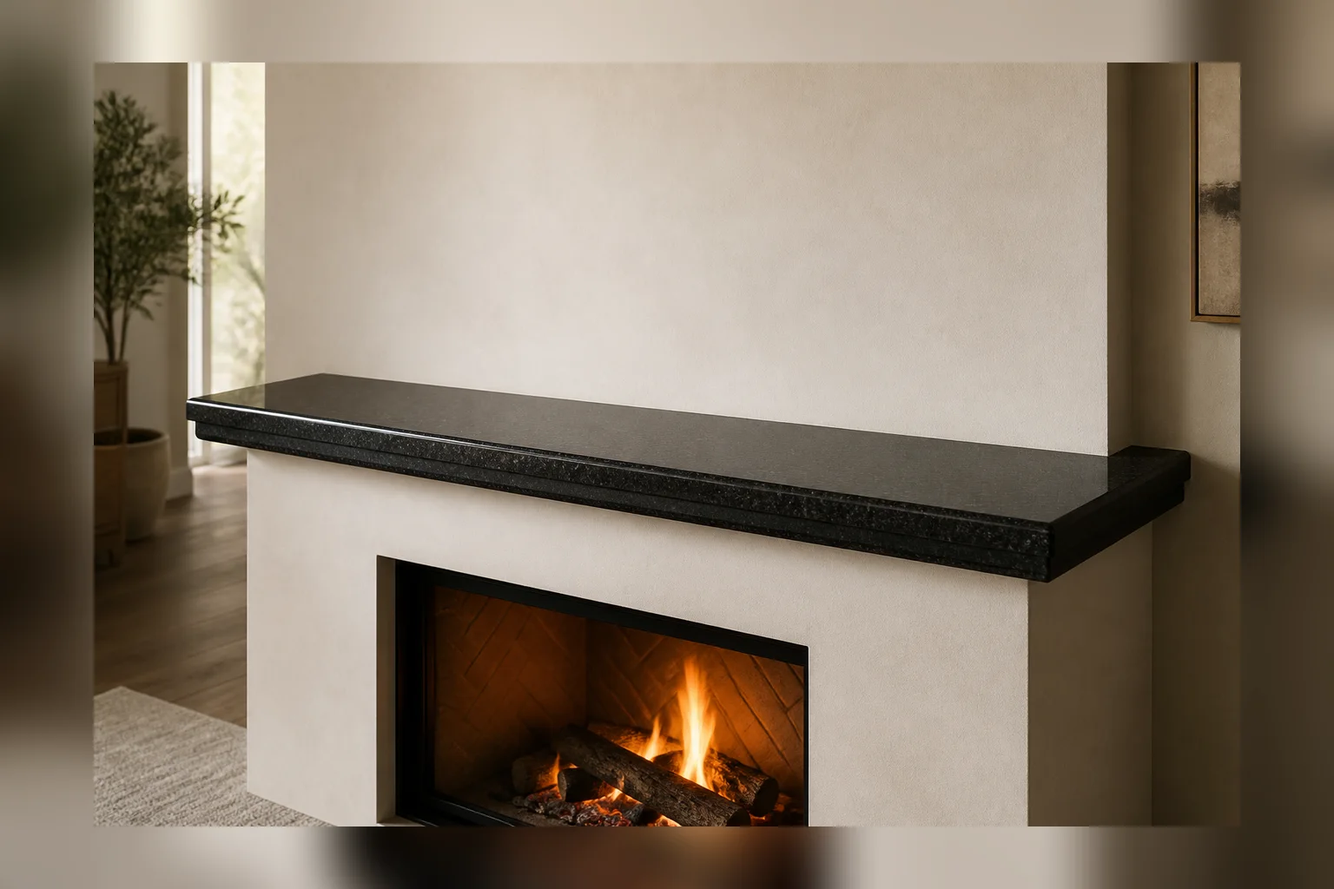
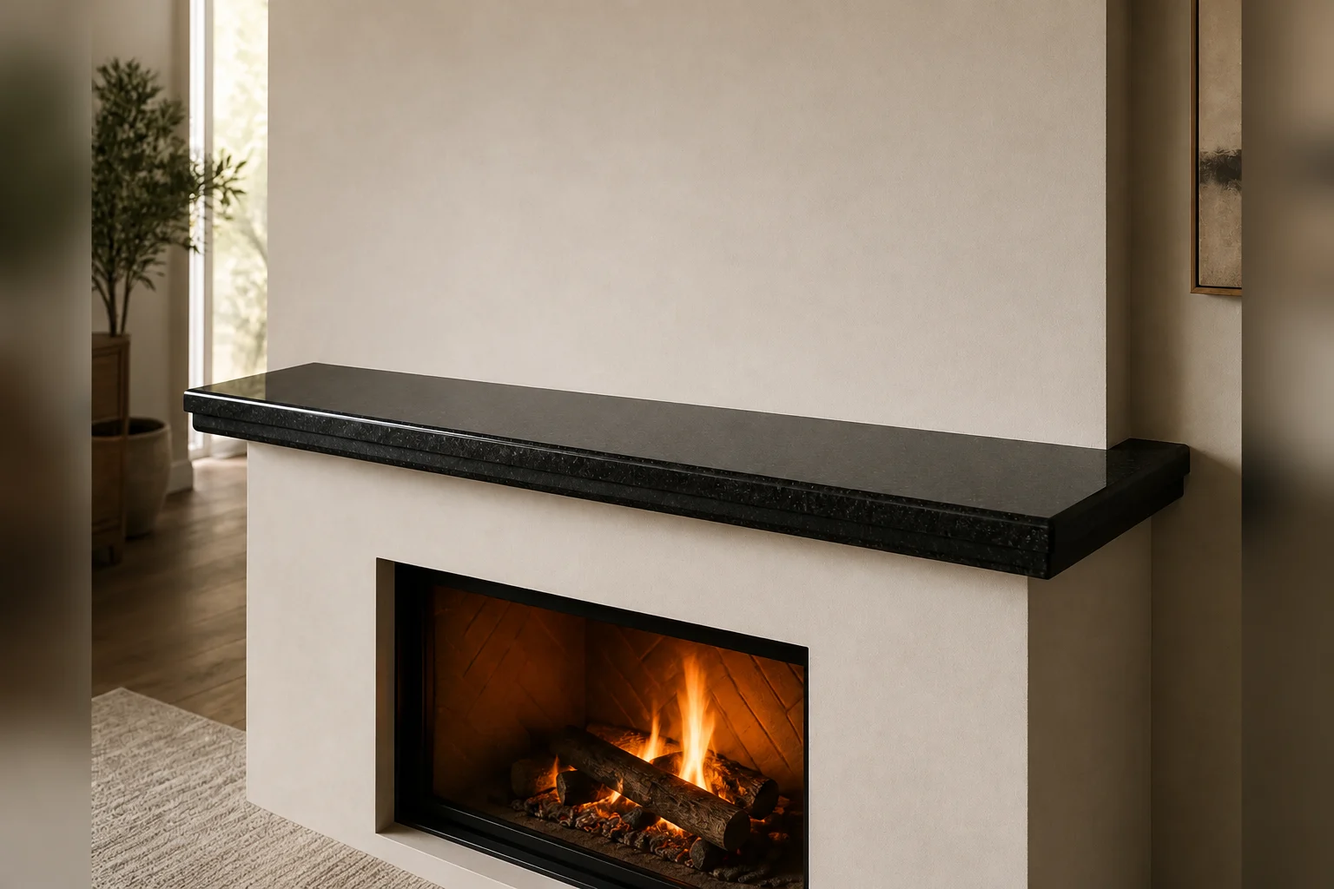
Release v1.1.8 form and catalog polish

diff --git a/app/page.tsx b/app/page.tsx
@@ -23,7 +23,7 @@ export default function Home() {
   const [activeStone, setActiveStone] = useState(0);
   const [selectedInterest, setSelectedInterest] = useState("");
   const [selectedProductIds, setSelectedProductIds] = useState<string[]>([]);
-  const [submitState, setSubmitState] = useState<"idle" | "submitting" | "preview" | "success" | "error">("idle");
+  const [submitState, setSubmitState] = useState<"idle" | "submitting" | "success" | "error">("idle");
   const [publicNumber, setPublicNumber] = useState("");
   const currentStone = useMemo(() => stones[activeStone], [activeStone]);
   const selectedProducts = useMemo(() => resolveProductSelections(selectedProductIds), [selectedProductIds]);
@@ -102,10 +102,6 @@ export default function Home() {
 
   async function submitForm(event: FormEvent<HTMLFormElement>) {
     event.preventDefault();
-    if (!siteConfig.leads.enabled) {
-      setSubmitState("preview");
-      return;
-    }
 
     const form = event.currentTarget;
     const data = new FormData(form);
@@ -277,15 +273,15 @@ export default function Home() {
       </section>
 
       <section className="contact-section" id="contact"><div className="content-wrap contact-grid" data-reveal>
-        <div className="contact-copy"><p className="eyebrow light"><span></span>Почнімо з розмови</p><h2>Розкажіть, який виріб<br />ви хочете <em>створити.</em></h2><p>{siteConfig.leads.enabled ? "Залиште контакт і короткий опис. Заявка спочатку надійно збережеться, а потім майстер отримає сповіщення." : "Форма повністю підготовлена, але збір персональних даних у тестовій версії вимкнено до підключення власного Cloudflare та підтвердження правил зберігання. Найшвидший зв’язок зараз — телефон."}</p><a className="contact-phone" href={siteConfig.phone.href} aria-label={`Зателефонувати: ${siteConfig.phone.display}`}><Icon name="phone" /><span><small>Телефон для консультації</small><b>{siteConfig.phone.display}</b></span></a><MessengerLinks className="contact-messengers" /><div className="contact-note"><Icon name="check" /><span><b>Без поспішних рішень</b><small>Спочатку обговорення, матеріал і проєкт — потім виробництво.</small></span></div></div>
-        {(submitState === "preview" || submitState === "success") ? <div className="form-success" role="status"><span><Icon name="check" /></span><h3>{submitState === "success" ? `Заявку ${publicNumber} збережено` : "Чернетку заявки підготовлено"}</h3><p>{submitState === "success" ? "Майстер отримає сповіщення й зв’яжеться з вами. Збережіть номер заявки." : <>Дані нікуди не надсилалися: на публічному Sites збір персональних даних вимкнений. Зателефонуйте за номером <a href={siteConfig.phone.href}>{siteConfig.phone.display}</a>.</>}</p><button type="button" onClick={() => setSubmitState("idle")}>Повернутися до форми</button></div> :
+        <div className="contact-copy"><p className="eyebrow light"><span></span>Почнімо з розмови</p><h2>Розкажіть, який виріб<br />ви хочете <em>створити.</em></h2><p>Залиште контакт і короткий опис. Заявка спочатку надійно збережеться, а потім майстер отримає сповіщення.</p><a className="contact-phone" href={siteConfig.phone.href} aria-label={`Зателефонувати: ${siteConfig.phone.display}`}><Icon name="phone" /><span><small>Телефон для консультації</small><b>{siteConfig.phone.display}</b></span></a><MessengerLinks className="contact-messengers" /><div className="contact-note"><Icon name="check" /><span><b>Без поспішних рішень</b><small>Спочатку обговорення, матеріал і проєкт — потім виробництво.</small></span></div></div>
+        {submitState === "success" ? <div className="form-success" role="status"><span><Icon name="check" /></span><h3>{`Заявку ${publicNumber} збережено`}</h3><p>Майстер отримає сповіщення й зв’яжеться з вами. Збережіть номер заявки.</p><button type="button" onClick={() => setSubmitState("idle")}>Повернутися до форми</button></div> :
           <form className="contact-form" onSubmit={submitForm} aria-describedby="form-preview-note">
             {selectedProducts ? <div className="selected-products full"><div><Icon name="check" /><p>Обрано для оформлення: <b>{selectedProducts.label}</b></p><button type="button" onClick={clearProductSelection}>Очистити</button></div><ul>{selectedProducts.productLabels.map((label) => <li key={label}>{label}</li>)}</ul></div> : selectedInterest && <p className="selected-interest full"><Icon name="check" />Обрано: <b>{selectedInterest}</b></p>}
-            <label><span>Ваше ім’я</span><input name="name" type="text" placeholder="Як до вас звертатися" autoComplete="name" minLength={2} maxLength={80} required /></label><label><span>Номер телефону</span><input name="phone" type="tel" placeholder="+38 (___) ___-__-__" autoComplete="tel" required /></label><label><span>Що вас цікавить?</span><select name="categoryId" value={selectedInterest} onChange={(event) => chooseInterest(event.target.value)} required><option value="" disabled>Оберіть категорію</option>{interestOptions.map((option) => <option value={option} key={option}>{option}</option>)}</select></label><label className="full"><span>Коротко про побажання</span><textarea name="message" rows={3} maxLength={2000} placeholder="Матеріал, форма, орієнтовний бюджет або посилання на приклад"></textarea></label><label className="honeypot" aria-hidden="true"><span>Сайт</span><input name="website" tabIndex={-1} autoComplete="off" /></label>{siteConfig.leads.enabled && <><label className="consent full"><input name="consentAccepted" type="checkbox" required /><span>Погоджуюся на використання контактних даних лише для відповіді на звернення. <a href="/privacy/">Докладніше</a></span></label>{siteConfig.leads.turnstileSiteKey ? <div className="turnstile full"><Script src="https://challenges.cloudflare.com/turnstile/v0/api.js" strategy="afterInteractive" /><div className="cf-turnstile" data-sitekey={siteConfig.leads.turnstileSiteKey} data-theme="light"></div></div> : <p className="form-error full">Форма вимкнена: не налаштований публічний ключ Turnstile.</p>}</>} {submitState === "error" && <p className="form-error full" role="alert">Не вдалося зберегти заявку. Дані не підтверджені як надіслані — будь ласка, зателефонуйте.</p>}<button className="button primary dark full" type="submit" disabled={submitState === "submitting" || (siteConfig.leads.enabled && !siteConfig.leads.turnstileSiteKey)}>{siteConfig.leads.enabled ? (submitState === "submitting" ? "Надсилаємо…" : "Надіслати заявку") : "Підготувати чернетку"} <Icon name="arrow" /></button><small className="form-policy" id="form-preview-note">{siteConfig.leads.enabled ? <>Надсилаючи форму, ви підтверджуєте згоду версії {siteConfig.leads.consentVersion}.</> : <>Тестовий режим: форма не надсилає й не зберігає персональні дані. <a href="/privacy/">Політика конфіденційності</a></>}</small>
+            <label><span>Ваше ім’я</span><input name="name" type="text" placeholder="Як до вас звертатися" autoComplete="name" minLength={2} maxLength={80} required /></label><label><span>Номер телефону</span><input name="phone" type="tel" placeholder="+38 (___) ___-__-__" autoComplete="tel" required /></label><label><span>Що вас цікавить?</span><select name="categoryId" value={selectedInterest} onChange={(event) => chooseInterest(event.target.value)} required><option value="" disabled>Оберіть категорію</option>{interestOptions.map((option) => <option value={option} key={option}>{option}</option>)}</select></label><label className="full"><span>Коротко про побажання</span><textarea name="message" rows={3} maxLength={2000} placeholder="Матеріал, форма, орієнтовний бюджет або посилання на приклад"></textarea></label><label className="honeypot" aria-hidden="true"><span>Сайт</span><input name="website" tabIndex={-1} autoComplete="off" /></label><label className="consent full"><input name="consentAccepted" type="checkbox" required /><span>Погоджуюся на використання контактних даних лише для відповіді на звернення. <a href="/privacy/">Докладніше</a></span></label>{siteConfig.leads.turnstileSiteKey ? <div className="turnstile full"><Script src="https://challenges.cloudflare.com/turnstile/v0/api.js" strategy="afterInteractive" /><div className="cf-turnstile" data-sitekey={siteConfig.leads.turnstileSiteKey} data-theme="light"></div></div> : <p className="form-error full">Форма тимчасово недоступна: не налаштований публічний ключ Turnstile.</p>} {submitState === "error" && <p className="form-error full" role="alert">Не вдалося зберегти заявку. Дані не підтверджені як надіслані — будь ласка, зателефонуйте.</p>}<button className="button primary dark full" type="submit" disabled={submitState === "submitting" || !siteConfig.leads.turnstileSiteKey}>{submitState === "submitting" ? "Надсилаємо…" : "Надіслати заявку"} <Icon name="arrow" /></button><small className="form-policy" id="form-preview-note">Надсилаючи форму, ви підтверджуєте згоду версії {siteConfig.leads.consentVersion}. <a href="/privacy/">Політика конфіденційності</a></small>
           </form>}
       </div></section>
 
-      <footer><div className="content-wrap footer-top"><a className="brand footer-brand" href="#top" aria-label={`${siteConfig.workingName} — на початок`}><BrandLogo /></a><p>Вироби з натурального граніту та мармуру. Проєктування, виготовлення та встановлення.</p><div className="footer-actions"><a href={siteConfig.phone.href}><Icon name="phone" />{siteConfig.phone.display}</a><MessengerLinks className="footer-messengers" /><a href="#contact">Запросити прорахунок <Icon name="arrow" /></a><a href="/privacy/">Конфіденційність</a></div></div><div className="content-wrap footer-bottom"><span>© 2026 {siteConfig.workingName}. Демонстраційний каталог.</span><span>Україна · {siteConfig.location}</span></div></footer>
+      <footer><div className="content-wrap footer-top"><a className="brand footer-brand" href="#top" aria-label={`${siteConfig.workingName} — на початок`}><BrandLogo /></a><p>Вироби з натурального граніту та мармуру. Проєктування, виготовлення та встановлення.</p><div className="footer-actions"><a href={siteConfig.phone.href}><Icon name="phone" />{siteConfig.phone.display}</a><MessengerLinks className="footer-messengers" /><a href="#contact">Запросити прорахунок <Icon name="arrow" /></a><a href="/privacy/">Конфіденційність</a></div></div><div className="content-wrap footer-bottom"><span>© 2026 {siteConfig.workingName}. Каталог виробів.</span><span>Україна · {siteConfig.location}</span></div></footer>
       <a className="floating-contact" href={siteConfig.phone.href} aria-label={`Зателефонувати: ${siteConfig.phone.display}`}><Icon name="phone" /><span>Зателефонувати</span></a>
     </main>
   );

diff --git a/app/globals.css b/app/globals.css
@@ -266,15 +266,15 @@ footer { background: #111315; color: #fff; padding: 55px 0 24px; }
 .catalog-masthead aside { margin-top: 42px; display: flex; gap: 18px; max-width: 850px; padding: 20px 24px; background: #e8e4dc; border-left: 3px solid var(--bronze); }
 .catalog-masthead aside b { font-family: var(--serif); font-weight: 400; }
 .catalog-masthead aside span { color: var(--muted); line-height: 1.55; font-size: 13px; }
-.catalog-category-nav { position: sticky; top: 0; z-index: 9; display: grid; grid-template-columns: repeat(5, minmax(0, 1fr)); gap: 1px; padding-block: 10px; background: rgba(246,245,241,.92); backdrop-filter: blur(14px); border-block: 1px solid var(--line); box-shadow: 0 14px 34px rgba(17,19,21,.08); }
-.catalog-category-nav a { min-height: 86px; padding: 10px; display: grid; grid-template-columns: 72px 1fr; align-items: center; gap: 12px; background: rgba(255,255,255,.7); border: 1px solid transparent; color: var(--ink); }
+.catalog-category-nav { position: sticky; top: 0; z-index: 9; display: grid; grid-template-columns: repeat(5, minmax(0, 1fr)); gap: 1px; padding-block: 7px; background: rgba(246,245,241,.92); backdrop-filter: blur(14px); border-block: 1px solid var(--line); box-shadow: 0 10px 26px rgba(17,19,21,.08); }
+.catalog-category-nav a { min-height: 68px; padding: 7px 9px; display: grid; grid-template-columns: 58px 1fr; align-items: center; gap: 10px; background: rgba(255,255,255,.7); border: 1px solid transparent; color: var(--ink); }
 .catalog-category-nav a:hover, .catalog-category-nav a:focus-visible { border-color: rgba(165,132,85,.45); background: #fff; }
 .catalog-category-nav a.is-active { border-color: rgba(165,132,85,.65); background: rgba(165,132,85,.13); }
-.catalog-category-nav img { width: 72px; height: 60px; object-fit: cover; object-position: var(--category-position, 50% 50%); background: #d6d5d0; }
-.catalog-category-nav span { min-width: 0; display: grid; gap: 5px; }
-.catalog-category-nav b { font-family: var(--serif); font-size: 15px; font-weight: 400; line-height: 1.1; }
-.catalog-category-nav small { color: var(--muted); font-size: 10px; text-transform: uppercase; letter-spacing: .08em; }
-.catalog-group { padding-block: 100px 15px; scroll-margin-top: 128px; }
+.catalog-category-nav img { width: 58px; height: 46px; object-fit: cover; object-position: var(--category-position, 50% 50%); background: #d6d5d0; }
+.catalog-category-nav span { min-width: 0; display: grid; gap: 4px; }
+.catalog-category-nav b { font-family: var(--serif); font-size: 13px; font-weight: 400; line-height: 1.1; }
+.catalog-category-nav small { color: var(--muted); font-size: 9px; text-transform: uppercase; letter-spacing: .08em; }
+.catalog-group { padding-block: 90px 15px; scroll-margin-top: 108px; }
 .catalog-group > header { display: grid; grid-template-columns: 1fr 1fr; gap: 9vw; align-items: end; margin-bottom: 40px; }
 .catalog-group > header h2 { font-size: clamp(38px, 4.5vw, 58px); }
 .catalog-group > header > div:last-child { display: flex; align-items: flex-end; justify-content: space-between; gap: 24px; }
@@ -467,12 +467,12 @@ footer { background: #111315; color: #fff; padding: 55px 0 24px; }
   .catalog-masthead { padding-block: 70px 50px; }
   .catalog-masthead h1, .category-masthead h1, .legal-page h1 { font-size: 46px; }
   .catalog-masthead aside { flex-direction: column; }
-  .catalog-category-nav { width: 100%; grid-auto-flow: column; grid-auto-columns: minmax(168px, 72vw); grid-template-columns: none; overflow-x: auto; overscroll-behavior-x: contain; padding-inline: 16px; scroll-snap-type: x proximity; }
-  .catalog-category-nav a { min-height: 74px; grid-template-columns: 58px 1fr; scroll-snap-align: start; }
-  .catalog-category-nav img { width: 58px; height: 52px; object-position: var(--category-mobile-position, var(--category-position, 50% 50%)); }
-  .catalog-category-nav b { font-size: 14px; }
+  .catalog-category-nav { width: 100%; grid-auto-flow: column; grid-auto-columns: 136px; grid-template-columns: none; overflow-x: auto; overscroll-behavior-x: contain; padding-inline: 12px; scroll-snap-type: x proximity; }
+  .catalog-category-nav a { min-height: 60px; padding: 7px; grid-template-columns: 42px 1fr; gap: 8px; scroll-snap-align: center; }
+  .catalog-category-nav img { width: 42px; height: 38px; object-position: var(--category-mobile-position, var(--category-position, 50% 50%)); }
+  .catalog-category-nav b { font-size: 12px; }
   .catalog-category-nav small { font-size: 9px; }
-  .catalog-group { padding-top: 75px; }
+  .catalog-group { padding-top: 68px; scroll-margin-top: 84px; }
   .catalog-group > header, .catalog-cta > div, .product-detail-grid { grid-template-columns: 1fr; gap: 28px; }
   .catalog-group > header > div:last-child { align-items: flex-start; flex-direction: column; }
   .product-grid { grid-template-columns: 1fr; }

diff --git a/app/components/category-visual-nav.tsx b/app/components/category-visual-nav.tsx
@@ -1,4 +1,7 @@
+"use client";
+
 import type { CSSProperties } from "react";
+import { useEffect, useRef, useState } from "react";
 import Link from "next/link";
 import { getProductsByCategory, publishedCategories } from "../data/catalog";
 
@@ -8,10 +11,65 @@ export type CategoryVisualNavProps = {
 };
 
 export function CategoryVisualNav({ activeSlug, linkMode = "pages" }: CategoryVisualNavProps) {
+  const [currentSlug, setCurrentSlug] = useState(activeSlug ?? (linkMode === "anchors" ? publishedCategories[0]?.slug ?? "" : ""));
+  const navRef = useRef<HTMLElement>(null);
+  const linkRefs = useRef(new Map<string, HTMLAnchorElement>());
+
+  useEffect(() => {
+    if (!activeSlug) return;
+    const frame = window.requestAnimationFrame(() => setCurrentSlug(activeSlug));
+    return () => window.cancelAnimationFrame(frame);
+  }, [activeSlug]);
+
+  useEffect(() => {
+    if (linkMode !== "anchors") return;
+
+    let frame = 0;
+
+    function updateActiveCategory() {
+      const navBottom = navRef.current?.getBoundingClientRect().bottom ?? 0;
+      let nextSlug = publishedCategories[0]?.slug ?? "";
+
+      for (const category of publishedCategories) {
+        const section = document.getElementById(category.slug);
+        if (!section) continue;
+        if (section.getBoundingClientRect().top <= navBottom + 88) {
+          nextSlug = category.slug;
+        }
+      }
+
+      setCurrentSlug(nextSlug);
+    }
+
+    function queueUpdate() {
+      window.cancelAnimationFrame(frame);
+      frame = window.requestAnimationFrame(updateActiveCategory);
+    }
+
+    queueUpdate();
+    window.addEventListener("scroll", queueUpdate, { passive: true });
+    window.addEventListener("resize", queueUpdate);
+
+    return () => {
+      window.cancelAnimationFrame(frame);
+      window.removeEventListener("scroll", queueUpdate);
+      window.removeEventListener("resize", queueUpdate);
+    };
+  }, [linkMode]);
+
+  useEffect(() => {
+    if (!currentSlug) return;
+    linkRefs.current.get(currentSlug)?.scrollIntoView({
+      block: "nearest",
+      inline: "center",
+      behavior: "smooth",
+    });
+  }, [currentSlug]);
+
   return (
-    <nav className="catalog-category-nav content-wrap" aria-label="Категорії каталогу">
+    <nav ref={navRef} className="catalog-category-nav content-wrap" aria-label="Категорії каталогу">
       {publishedCategories.map((category) => {
-        const isActive = category.slug === activeSlug;
+        const isActive = category.slug === currentSlug;
         const href = linkMode === "anchors" ? `#${category.slug}` : `/catalog/${category.slug}/`;
 
         return (
@@ -20,6 +78,14 @@ export function CategoryVisualNav({ activeSlug, linkMode = "pages" }: CategoryVi
             href={href}
             key={category.id}
             aria-current={isActive ? "page" : undefined}
+            onClick={() => setCurrentSlug(category.slug)}
+            ref={(element) => {
+              if (element) {
+                linkRefs.current.set(category.slug, element);
+              } else {
+                linkRefs.current.delete(category.slug);
+              }
+            }}
             style={{
               "--category-position": category.imagePosition,
               "--category-mobile-position": category.mobileImagePosition,

diff --git a/app/privacy/page.tsx b/app/privacy/page.tsx
@@ -14,10 +14,10 @@ export default function PrivacyPage() {
       <article className="legal-page content-wrap">
         <p className="eyebrow"><span></span>Версія від 1 вересня 2026 року</p>
         <h1>Конфіденційність</h1>
-        <aside><b>Поточний тестовий режим</b><p>На публічному Sites серверне надсилання форми вимкнене. Сайт не зберігає введені у форму ім’я, телефон або повідомлення. Для зв’язку використовуйте номер {siteConfig.phone.display}.</p></aside>
+        <aside><b>Поточний режим форми</b><p>Надсилання працює тільки після підключення Cloudflare Worker, D1, Turnstile і сповіщень. Якщо захист або серверна частина не налаштовані, форма не прийматиме контактні дані. Для прямого зв’язку використовуйте номер {siteConfig.phone.display}.</p></aside>
 
-        <h2>Що зміниться після production-підключення</h2>
-        <p>Після окремого ввімкнення форми сайт збиратиме тільки ім’я, номер телефону, обраний виріб, коротке повідомлення, технічний номер заявки та підтвердження згоди. Мета — відповісти на звернення, уточнити замовлення й підготувати прорахунок.</p>
+        <h2>Які дані потрібні для заявки</h2>
+        <p>Форма збирає тільки ім’я, номер телефону, обраний виріб, коротке повідомлення, технічний номер заявки та підтвердження згоди. Мета — відповісти на звернення, уточнити замовлення й підготувати прорахунок.</p>
 
         <h2>Де зберігатимуться дані</h2>
         <p>Заявка спочатку зберігатиметься в захищеній базі D1 власного Cloudflare-акаунта бізнесу. Telegram отримуватиме сповіщення через надійну чергу, але не буде єдиним місцем зберігання заявки. Закупівельні ціни, націнки й внутрішні примітки не передаватимуться до публічного сайту.</p>

diff --git a/app/admin/admin-leads.tsx b/app/admin/admin-leads.tsx
@@ -51,7 +51,7 @@ export function AdminLeads() {
   }
 
   if (state === "loading") return <div className="admin-state">Завантажуємо заявки…</div>;
-  if (state === "unavailable") return <div className="admin-state"><b>Демонстраційний режим</b><p>Адмінський API тут не підключений. Після створення власного Cloudflare-акаунта, D1 і Access ця сама сторінка покаже реальні заявки.</p></div>;
+  if (state === "unavailable") return <div className="admin-state"><b>API заявок не підключений</b><p>Після підключення Cloudflare Worker, D1 і Access ця сторінка покаже реальні заявки.</p></div>;
   if (state === "error") return <div className="admin-state"><b>Дані не підтверджені</b><p>Сталася помилка. Адмінка не показує застарілий стан як успішний.</p><button type="button" onClick={() => void load()}>Спробувати ще раз</button></div>;
   if (leads.length === 0) return <div className="admin-state">Заявок поки немає.</div>;
 

diff --git a/app/site-config.ts b/app/site-config.ts
@@ -41,7 +41,6 @@ export const siteConfig = {
     },
   },
   leads: {
-    enabled: process.env.NEXT_PUBLIC_LEADS_ENABLED === "true",
     endpoint: "/api/v1/leads",
     turnstileSiteKey: process.env.NEXT_PUBLIC_TURNSTILE_SITE_KEY ?? "",
     consentVersion: "lead-contact-v1",

diff --git a/docs/PROJECT_STATUS_UA.md b/docs/PROJECT_STATUS_UA.md
@@ -1,14 +1,14 @@
 # Стан проєкту Kaminchyk
 
-Оновлено: 3 вересня 2026 року. Поточний перевірений реліз: `v1.1.6`.
-Локальний кандидат у роботі: `1.1.7`.
+Оновлено: 3 вересня 2026 року. Поточний перевірений реліз: `v1.1.8`.
+Локальний кандидат у роботі: немає.
 
-## Що означає v1.1.6
+## Що означає v1.1.8
 
-Це завершений код і публічна демонстрація продукту, яку можна переглядати на
-комп’ютері й телефоні. Вона не прикидається вже підключеним бізнес-production:
-на Sites форма не надсилає персональні дані, а згенеровані зображення чітко
-позначені як візуалізації.
+Це завершений код і production-кандидат продукту, який можна переглядати на
+комп’ютері й телефоні. Форма більше не має демонстраційної чернетки: вона або
+працює через Turnstile → Worker → D1, або чесно вимкнена через відсутню
+конфігурацію. Згенеровані зображення чітко позначені як візуалізації.
 
 Код реальних заявок, Telegram, адмінки, кошторису та конфігурації Cloudflare
 готовий і протестований. Для активації потрібні дії власника в зовнішніх
@@ -53,8 +53,10 @@
   екран не обіцяв нереалістичний комплект столу з дорогими масивними ніжками;
 - у товарних фото додано малу кнопку `+`; після вибору вона стає галочкою, а
   нижній напис `Оформлення` веде до форми з усіма обраними товарами;
-- каталог, категорії й товарні сторінки мають напівпрозору sticky-навігацію
-  категорій із маленькими зображеннями та підсвіченою поточною категорією;
+- каталог, категорії й товарні сторінки мають компактну напівпрозору
+  sticky-навігацію категорій із маленькими зображеннями; на сторінці всього
+  каталогу активна категорія змінюється під час прокрутки й сама підводиться в
+  горизонтальній стрічці;
 - для лампадок, ваз і точеного декору прибрано проблемні пункти `Метал за
   погодженням`, `Форма чаші`, `Діаметр`, `Полірування`; лишено `Висота` і
   `Вид каменю (уточнюємо)`;
@@ -62,6 +64,8 @@
 - режим ціни «Вартість уточнюється» — жодної вигаданої суми;
 - optimized `stone-texture-atlas.webp` робить зразки каменю реалістичнішими,
   включно з різницею між Габро та Габро Premium;
+- у товарі `Камінна полиця` виправлено артефакт стіни, попередній WebP і новий
+  PNG-оригінал збережено в `work/generated-assets-from-codex/products/home/`;
 - вибраний товар передає стабільний `productId` у форму; кілька обраних
   товарів додаються назвами в повідомлення заявки, щоб їх бачили адмінка й
   Telegram без зміни D1-схеми;
@@ -107,7 +111,7 @@
 - Browser/CDP, screenshots, image generation і Sites-публікацію не робити без
   прямої потреби.
 
-## Тимчасове демонстраційне наповнення
+## Тимчасове візуальне наповнення
 
 Поточний публічний каталог сфокусований на виробах, які власник попросив
 показати першими: столи й лавки, лампадки, вази, точений декор, підвіконня та
@@ -127,7 +131,8 @@
 5. Внести Telegram і Turnstile secrets тільки в Cloudflare.
 6. Погодити юридичне ім’я володільця даних, строк зберігання й одержувачів.
 7. Виконати staging-заявку, перевірити D1, Telegram, адмінку й відновлення.
-8. Лише після цього зібрати frontend із `NEXT_PUBLIC_LEADS_ENABLED=true`.
+8. Лише після цього зібрати frontend із
+   `NEXT_PUBLIC_TURNSTILE_SITE_KEY="..." npm run build`.
 
 Максимально покроковий порядок: `docs/CLOUDFLARE_SETUP_UA.md` і
 `docs/DOMAIN_SETUP_UA.md`.

diff --git a/docs/HANDOFF_UA.md b/docs/HANDOFF_UA.md
@@ -1,6 +1,6 @@
 # Повний контекст проєкту Kaminchyk
 
-Оновлено: 2 вересня 2026 року.
+Оновлено: 3 вересня 2026 року.
 
 Цей файл — основна передача контексту новому чату Codex або розробнику. Він не
 є дослівним архівом переписки: тут збережено перевірені домовленості, причини
@@ -74,7 +74,7 @@
 - Незмінний тег `v0.1.0` вказує на коміт
   `b1d3f1affebcdb9d73667d45152a53e40fc36006`.
 - `v0.1.0` — перевірена точка відкату; її не пересувати й не перезаписувати.
-- Поточна перевірена версія — `1.1.5`; локальний кандидат у роботі — `1.1.6`.
+- Поточна перевірена версія — `1.1.8`; локального кандидата в роботі немає.
   Кожна завершена версія після повного CI одразу
   отримує незмінний release-тег без окремого підтвердження власника.
 - Публічна демонстрація Sites:
@@ -97,8 +97,9 @@
 резервним шляхом, але не є поточним рішенням. Варіант із двома окремими
 платними хостингами відкладено як зайво складний і потенційно дорожчий.
 
-ChatGPT Sites зараз використовується для розробки, демонстрації та тестування.
-Власний Cloudflare-акаунт і production-домен підключатимуться окремим етапом.
+ChatGPT Sites зараз використовується для публічного preview і релізної
+перевірки. Власний Cloudflare-акаунт і production-домен підключатимуться
+окремим етапом.
 
 Vinext, Vite, Cloudflare Vite plugin і шаблонний Worker-рендеринг прибрані
 31 серпня 2026 року. Це не змінює вигляд сайту й не скасовує Cloudflare:
@@ -118,8 +119,8 @@ Vinext, Vite, Cloudflare Vite plugin і шаблонний Worker-рендери
 - Перемикання візуального зразка каменю.
 - Scroll-reveal-анімація з доступним fallback.
 - Мобільне слово «Майстерність» трохи зменшується й не переноситься.
-- Форма чесно готує тільки локальну чернетку й прямо каже, що нічого не
-  надіслано.
+- Форма більше не має локальної демо-чернетки: вона або надсилає заявку через
+  Turnstile → Worker → D1, або вимкнена через відсутню конфігурацію.
 - Lint, TypeScript, production build і smoke-тест.
 - Статичний build у `out/` без Vinext/Vite та без Worker на відкритті сторінки.
 - Серверний контракт і валідація майбутньої заявки з нормалізацією телефону,
@@ -302,7 +303,7 @@ image generation і Sites-публікації не запускати для д
 2. Підключити готові D1/Turnstile/Access/Telegram/Cron за
    `docs/CLOUDFLARE_SETUP_UA.md`.
 3. Узгодити юридичне ім’я володільця, згоду, строки й одержувачів; лише тоді
-   увімкнути `NEXT_PUBLIC_LEADS_ENABLED=true`.
+   зібрати frontend із `NEXT_PUBLIC_TURNSTILE_SITE_KEY`.
 4. Отримати точні моделі, реальні фото та приватні ціни; замінити demo-data без
    зміни стабільних ID, якщо це той самий виріб.
 5. Перевірити 5–10 реальних кошторисів із майстром.

diff --git a/docs/BRIEF_UA.md b/docs/BRIEF_UA.md
@@ -22,9 +22,8 @@
 ## Поточна база
 
 - GitHub: `havrcode/kamin-korostyshiv`.
-- Актуальна підтягнута база перед цією задачею: `v1.1.6`
-  (`4902538`, `Document economical Codex workflow`).
-- Локальний кандидат після поточної роботи: `1.1.7`.
+- Актуальна перевірена база: `v1.1.8`.
+- Локальний кандидат після поточної роботи: немає.
 - Стек: React + TypeScript + Next.js App Router.
 - Публічний frontend збирається як static export у `out/`.
 - Vinext/Vite не повертати.
@@ -60,7 +59,8 @@ git log --oneline --decorate -10
 - Telegram: `https://t.me/+380660570987`.
 - Viber: до Viber Business кнопка копіює номер, не використовує персональний
   `viber://chat`.
-- Форма на Sites у demo-режимі не надсилає й не зберігає персональні дані.
+- Форма не має demo-чернетки: без `NEXT_PUBLIC_TURNSTILE_SITE_KEY` вона
+  вимкнена, а з ключем надсилає заявку в `/api/v1/leads`.
 - Реальні заявки вмикати тільки після власного Cloudflare, D1, Turnstile,
   Access, Telegram secrets і погодженого тексту згоди.
 - Закупівельні ціни, націнки й secrets ніколи не додавати в public JS або Git.
@@ -85,8 +85,9 @@ git log --oneline --decorate -10
   прямого погодження.
 - У товарних фото є кнопка `+`; вибраний товар показує галочку. Нижній напис
   `Оформлення` веде до форми з усіма вибраними товарами.
-- На сторінці каталогу, категорій і товарів є напівпрозора sticky-навігація
-  категорій із маленькими зображеннями; активна категорія підсвічується.
+- На сторінці каталогу, категорій і товарів є компактна напівпрозора
+  sticky-навігація категорій із маленькими зображеннями. У всьому каталозі
+  активна категорія змінюється під час прокрутки й підводиться в стрічці.
 - Для лампадок, ваз і точеного декору в матеріалах не показувати `Метал за
   погодженням`; у блоці `Що можна змінити` лишати тільки `Висота` і
   `Вид каменю (уточнюємо)`, без `Форма чаші`, `Діаметр`, `Полірування`.
@@ -100,6 +101,8 @@ git log --oneline --decorate -10
   `public/products/decor/`.
 - Категорія `Камінь для дому` вже має 9 окремих товарних WebP-візуалізацій у
   `public/products/home/`.
+- У `Камінна полиця` виправлено артефакт стіни; попередній WebP і новий
+  PNG-оригінал збережено в `work/generated-assets-from-codex/products/home/`.
 - Додано optimized `public/stone-texture-atlas.webp` для реалістичніших
   зразків каменю: Габро, Габро Premium, Покостівський, Капустинський,
   Лезниківський, Мармур.

diff --git a/CHANGELOG.md b/CHANGELOG.md
@@ -7,6 +7,20 @@
 
 - Немає.
 
+## 1.1.8 — 3 вересня 2026 року
+
+- Прибрано демонстраційну гілку контактної форми: вона більше не створює
+  локальну чернетку й не показує fake-success. Без публічного Turnstile key
+  кнопка надсилання вимкнена, а UI чесно показує помилку конфігурації.
+- Оновлено privacy/footer/admin-copy під production-кандидат без видимого
+  “демо-режиму”.
+- Sticky-навігацію категорій зроблено нижчою на ПК і вужчою на телефоні.
+- На сторінці всього каталогу активна категорія тепер змінюється під час
+  прокрутки, а горизонтальна стрічка сама підводить поточну категорію в поле
+  зору.
+- Замінено візуалізацію `Камінна полиця`: виправлено артефакт стіни над лівою
+  частиною полиці, PNG-оригінал і попередній WebP збережено в `work/`.
+
 ## 1.1.7 — 3 вересня 2026 року
 
 - Додано напівпрозору sticky-навігацію категорій із маленькими зображеннями,
